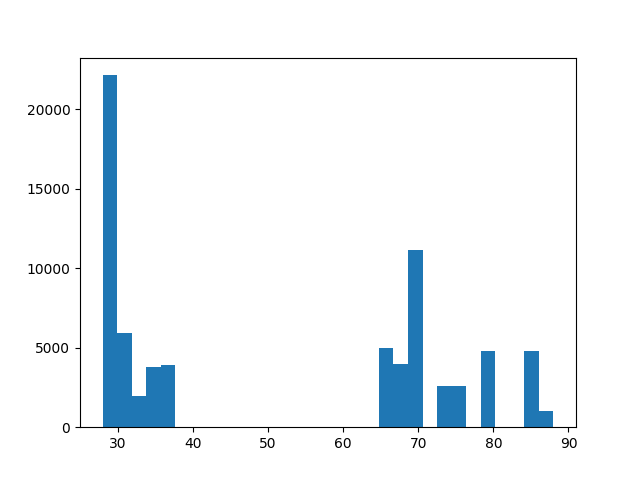
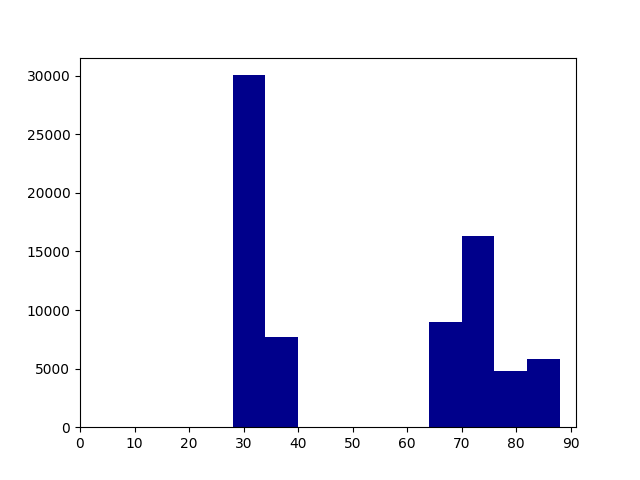
Updated histogram plotting (changed x and y axis scale and colour).

diff --git a/scripts/003/003_plot_histogram.py b/scripts/003/003_plot_histogram.py
@@ -39,5 +39,7 @@ file_handle.close()
 
 # Plot histogram
 
-n, bins, patches = plt.hist(x=temperatures, bins='auto')
+n, bins, patches = plt.hist(x=temperatures, bins=10, color='#00008b')
+plt.xticks(range(0, 100, 10))
+plt.yticks(range(0, 35000, 5000))
 plt.savefig(OUT_FILE)
